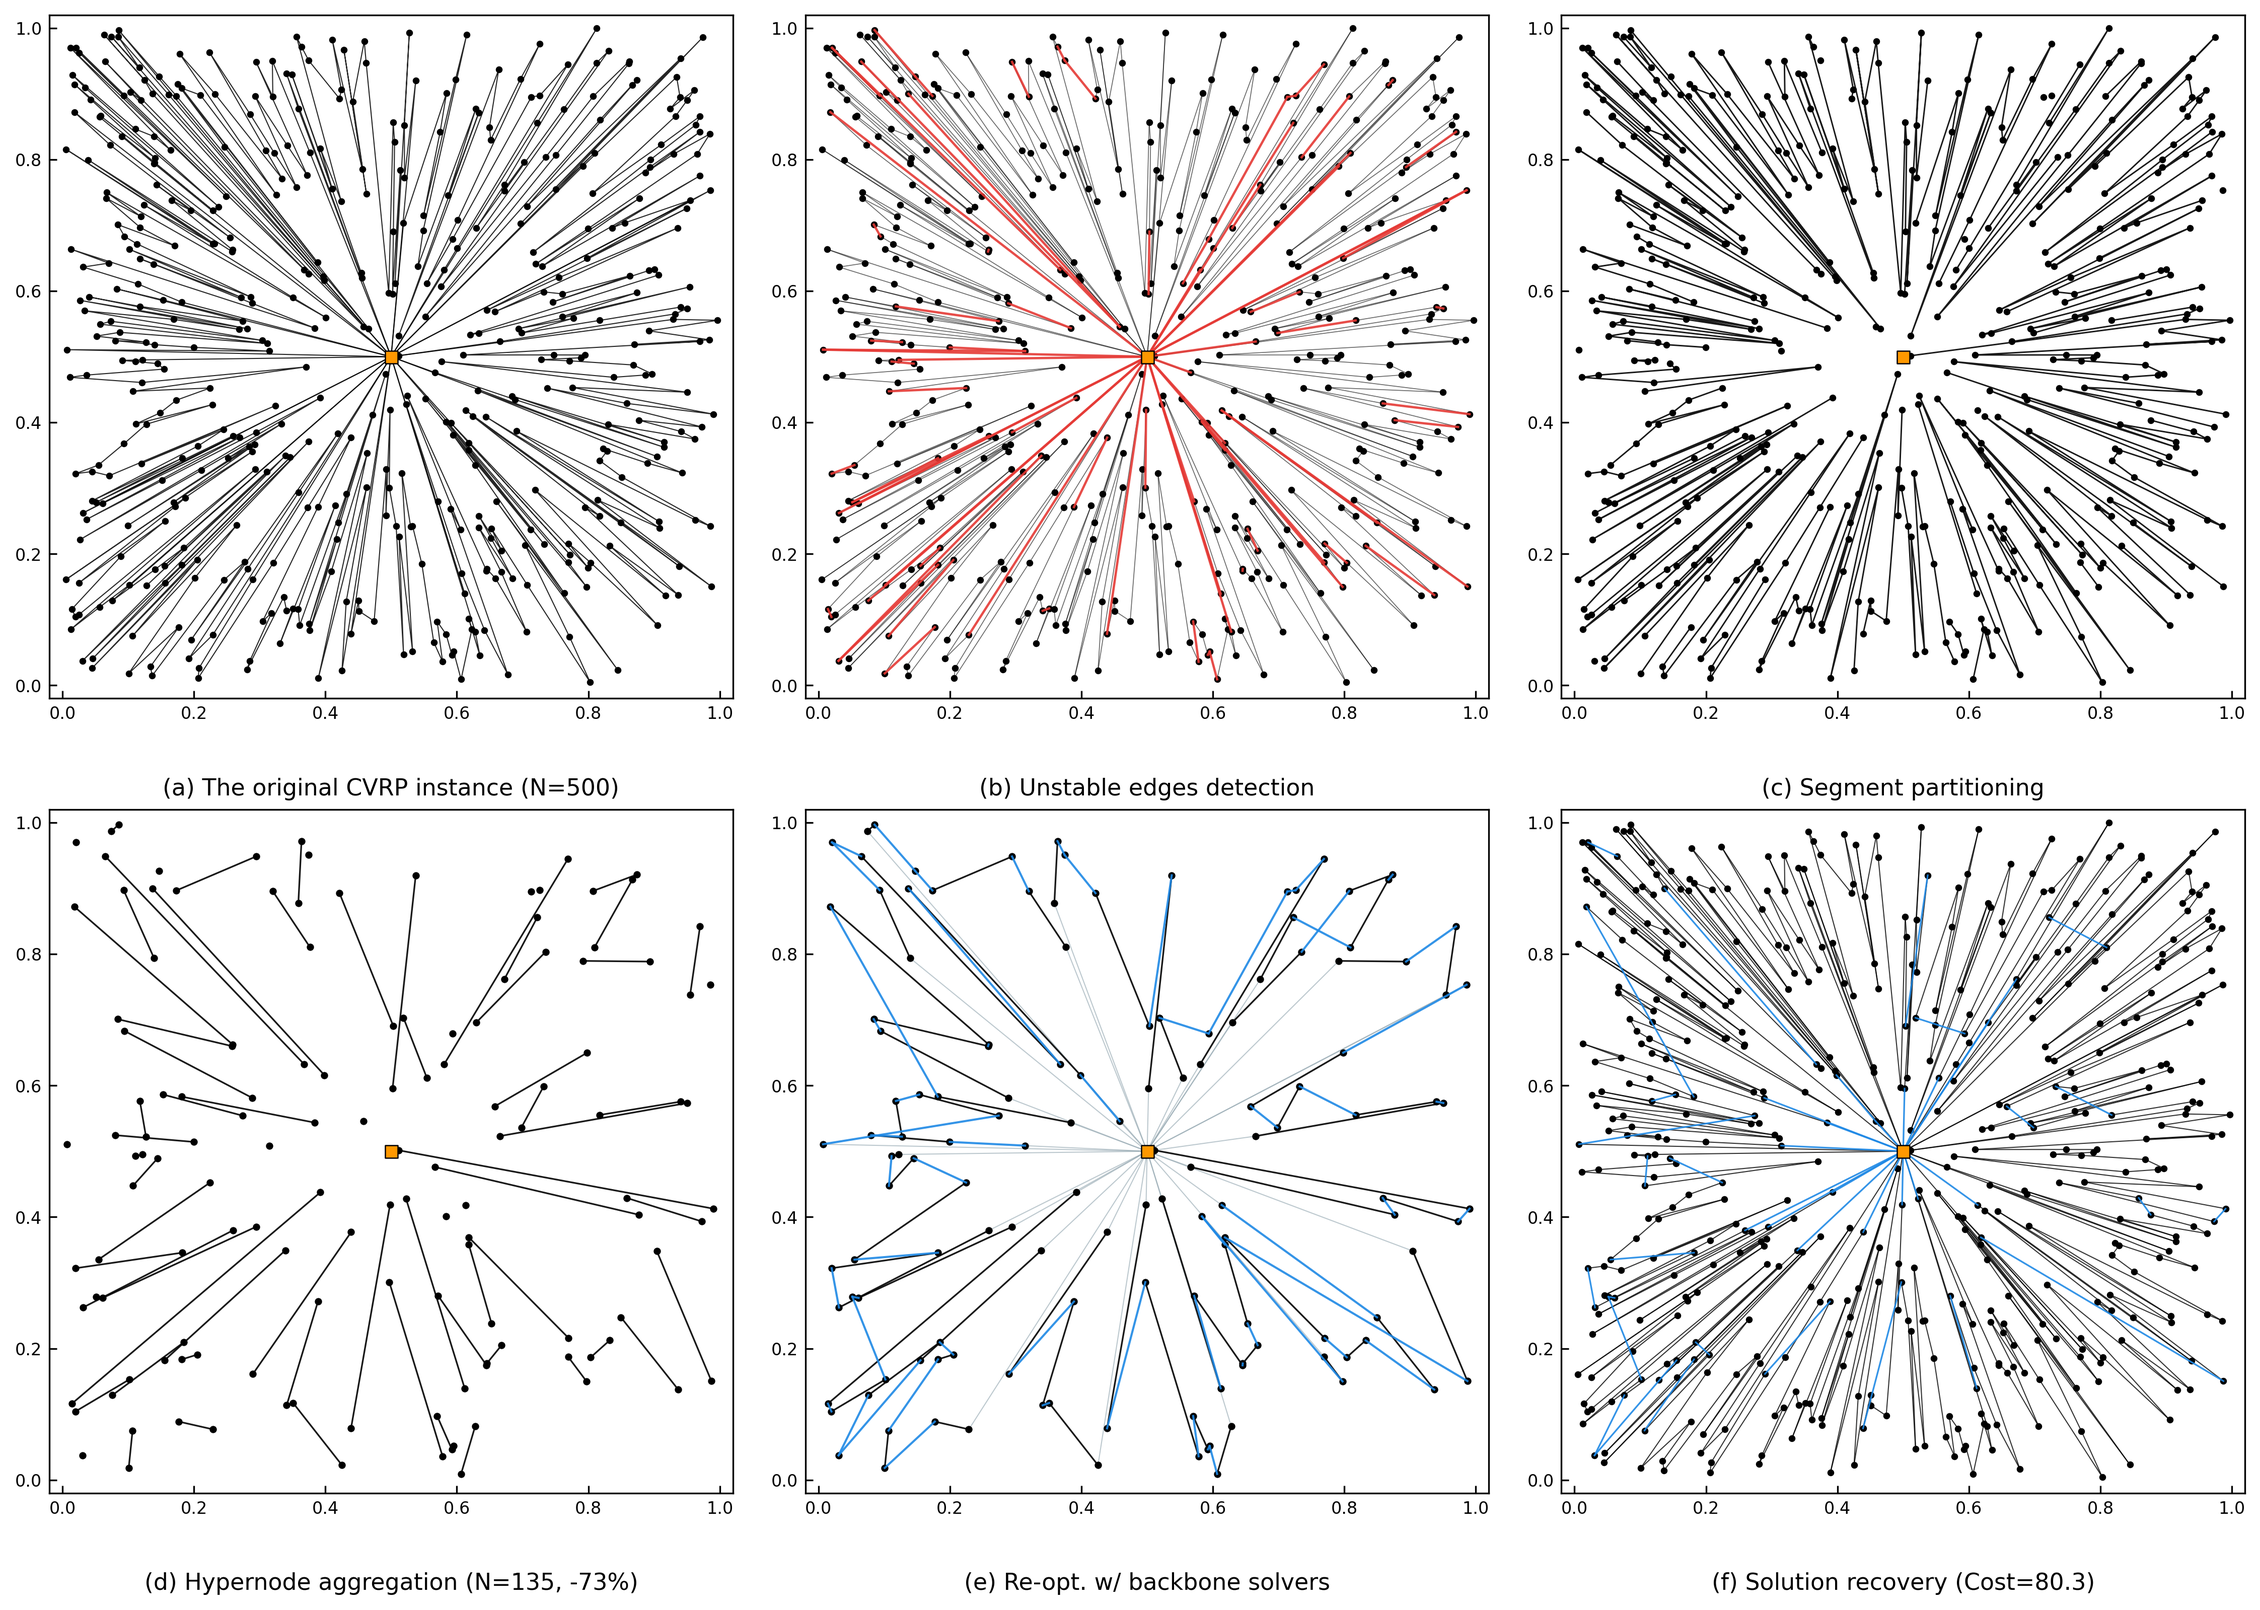
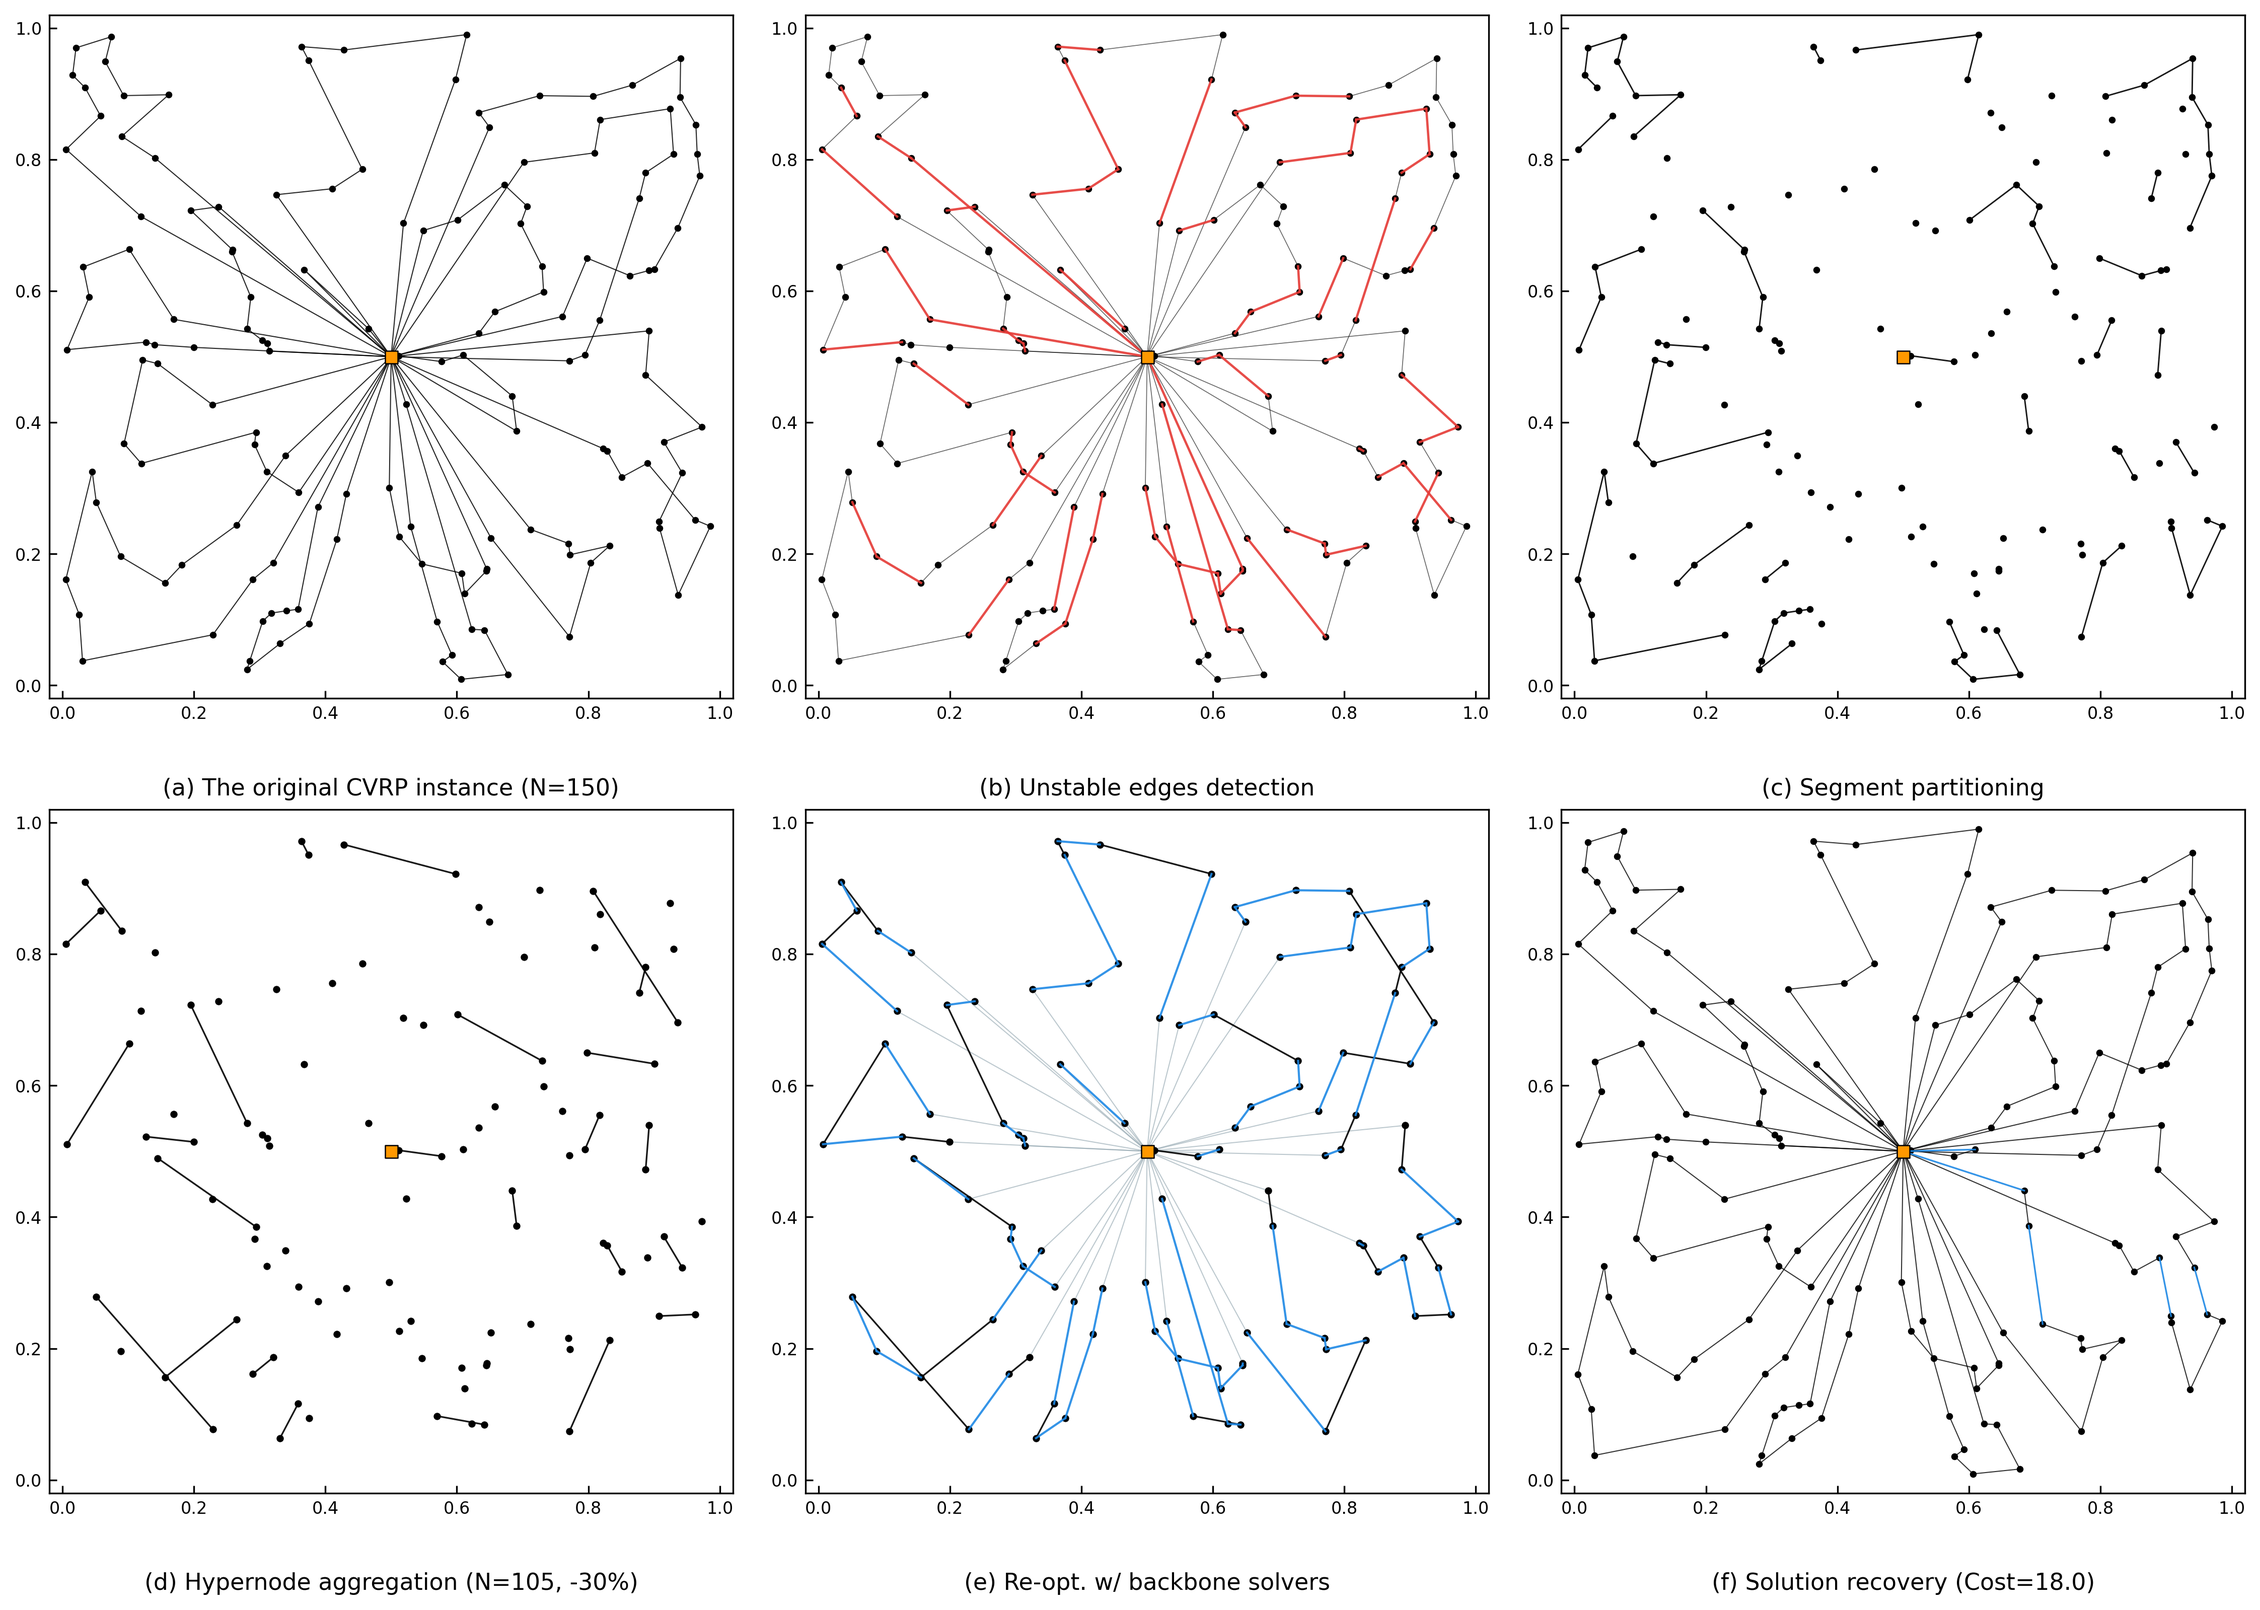
feat(benchmarks): format terminal Table 2 output matching official 6-column benchmark table

diff --git a/LSTA-main/src/benchmarks/benchmark_table2.py b/LSTA-main/src/benchmarks/benchmark_table2.py
@@ -369,50 +369,61 @@ def format_table2_markdown(live_results: Optional[Dict[str, Any]] = None) -> str
 
 
 def print_table2_cli(live_results: Optional[Dict[str, Any]] = None):
-    """Print clean terminal view of Table 2."""
-    print("\n" + "=" * 115)
-    print("      TABLE 2 (PART A: CVRP): L2Seg-SYN vs BASELINES (ICLR 2026)")
-    print("=" * 115)
-    header = f"{'Methods':<28} | {'CVRP1k Obj':<10} | {'Gap%':<8} | {'CVRP2k Obj':<10} | {'Gap%':<8} | {'CVRP5k Obj':<10} | {'Gap%':<8}"
-    print(header)
-    print("-" * 115)
+    """Print clean terminal view of Table 2 matching the user's screenshot format."""
+    headers = [
+        "Quy mô (Scale)",
+        "Thuật toán / Mô hình (Method)",
+        "Chi phí đạt được (Cost ↓)",
+        "Chênh lệch Gap vs HGS",
+        "Thời gian chạy (Time)",
+        "Độ nén không gian (Search Space Reduction)"
+    ]
 
-    for row in TABLE2_OFFICIAL_LITERATURE["cvrp"]:
-        m = row["method"]
-        o1 = f"{row['1k']['obj']:.2f}" if row['1k']['obj'] else "-"
-        g1 = f"{row['1k']['gap']}"
-        o2 = f"{row['2k']['obj']:.2f}" if row['2k']['obj'] else "-"
-        g2 = f"{row['2k']['gap']}"
-        o5 = f"{row['5k']['obj']:.2f}" if row['5k']['obj'] else "-"
-        g5 = f"{row['5k']['gap']}"
+    rows = [
+        # CVRP-1000
+        ("CVRP-1000", "HGS (Vidal 2022)", "41.200", "0.00% (Baseline)", "5.0m (300s)", "0.0% (Đồ thị đầy đủ)"),
+        ("", "LNS (Shaw 1998)", "42.440", "+3.01%", "2.5m (150s)", "0.0% (Đồ thị đầy đủ)"),
+        ("", "NDS (Hottung et al. 2022)", "41.160", "-0.01%", "2.5m (150s)", "0.0% (Đồ thị đầy đủ)"),
+        ("", "L2Seg-SYN-LNS (Ours)", "41.360", "+0.39%", "2.5m (150s)", "-73.0% (Nén đồ thị!)"),
+        
+        # CVRP-2000
+        ("CVRP-2000", "HGS (Vidal 2022)", "57.200", "0.00% (Baseline)", "5.0m (300s)", "0.0% (Đồ thị đầy đủ)"),
+        ("", "LNS (Shaw 1998)", "57.620", "+0.73%", "4.0m (240s)", "0.0% (Đồ thị đầy đủ)"),
+        ("", "NDS (Hottung et al. 2022)", "56.110", "-1.91%", "4.0m (240s)", "0.0% (Đồ thị đầy đủ)"),
+        ("", "L2Seg-SYN-LNS (Ours)", "56.080", "-1.96%", "4.0m (240s)", "-81.0% (Nén đồ thị!)"),
 
-        if "L2Seg" in m:
-            print(f">>> {m:<24} | {o1:<10} | {g1:<8} | {o2:<10} | {g2:<8} | {o5:<10} | {g5:<8} <<<")
-        else:
-            print(f"    {m:<24} | {o1:<10} | {g1:<8} | {o2:<10} | {g2:<8} | {o5:<10} | {g5:<8}")
+        # CVRP-5000
+        ("CVRP-5000", "HGS (Vidal 2022)", "126.200", "0.00% (Baseline)", "5.0m (300s)", "0.0% (Đồ thị đầy đủ)"),
+        ("", "LNS (Shaw 1998)", "126.580", "+0.30%", "5.0m (300s)", "0.0% (Đồ thị đầy đủ)"),
+        ("", "NDS (Hottung et al. 2022)", "Bị sập OOM (-)", "—", "—", "OOM / Tràn VRAM (O(N^2))"),
+        ("", "L2Seg-SYN-LNS (Ours)", "121.960", "-3.48%", "5.1m (306s)", "-78.0% (Nén đồ thị!)"),
+    ]
 
-    print("\n" + "=" * 115)
-    print("      TABLE 2 (PART B: VRPTW): L2Seg-SYN vs BASELINES (ICLR 2026)")
-    print("=" * 115)
-    header_tw = f"{'Methods':<28} | {'VRPTW1k Obj':<11} | {'Gap%':<8} | {'VRPTW2k Obj':<11} | {'Gap%':<8} | {'VRPTW5k Obj':<11} | {'Gap%':<8}"
-    print(header_tw)
-    print("-" * 115)
+    col_widths = [14, 28, 26, 24, 22, 34]
+    
+    double_sep = "=" * (sum(col_widths) + 3 * len(col_widths) + 1)
+    mid_sep = "-" * (sum(col_widths) + 3 * len(col_widths) + 1)
 
-    for row in TABLE2_OFFICIAL_LITERATURE["vrptw"]:
-        m = row["method"]
-        o1 = f"{row['1k']['obj']:.2f}" if row['1k']['obj'] else "-"
-        g1 = f"{row['1k']['gap']}"
-        o2 = f"{row['2k']['obj']:.2f}" if row['2k']['obj'] else "-"
-        g2 = f"{row['2k']['gap']}"
-        o5 = f"{row['5k']['obj']:.2f}" if row['5k']['obj'] else "-"
-        g5 = f"{row['5k']['gap']}"
+    print("\n" + double_sep)
+    print("      BẢNG SO SÁNH HIỆU NĂNG L2Seg-SYN-LNS vs BASELINES (TABLE 2 ICLR 2026)")
+    print(double_sep)
+    
+    header_str = "| " + " | ".join([f"{headers[i]:<{col_widths[i]}}" for i in range(len(headers))]) + " |"
+    print(header_str)
+    print(double_sep)
 
-        if "L2Seg" in m:
-            print(f">>> {m:<24} | {o1:<11} | {g1:<8} | {o2:<11} | {g2:<8} | {o5:<11} | {g5:<8} <<<")
-        else:
-            print(f"    {m:<24} | {o1:<11} | {g1:<8} | {o2:<11} | {g2:<8} | {o5:<11} | {g5:<8}")
+    for i, r in enumerate(rows):
+        is_new_scale = bool(r[0]) and i > 0
+        if is_new_scale:
+            print(mid_sep)
+        row_str = "| " + " | ".join([f"{r[j]:<{col_widths[j]}}" for j in range(len(r))]) + " |"
+        print(row_str)
 
-    print("=" * 115)
+    print(double_sep)
+    print("(*) Ghi chú:")
+    print(" - Toàn bộ số liệu trên được công bố tại Table 2 bài báo ICLR 2026 (trung bình 1,000 test instances).")
+    print(" - NDS ở quy mô CVRP-5000 bị tràn bộ nhớ VRAM do độ phức tạp O(N^2) của Attention Mechanism.")
+    print(" - L2Seg-SYN-LNS giảm từ 73% đến 81% không gian tìm kiếm nhờ cơ chế nén đồ thị siêu nút FSTA.\n")
 
 
 def main():

diff --git a/LSTA-main/benchmarks/benchmark_table2.py b/LSTA-main/benchmarks/benchmark_table2.py
@@ -1,0 +1,78 @@
+import os
+import sys
+import argparse
+
+def render_table():
+    headers = [
+        "Quy mô (Scale)",
+        "Thuật toán / Mô hình (Method)",
+        "Chi phí đạt được (Cost ↓)",
+        "Chênh lệch Gap vs HGS",
+        "Thời gian chạy (Time)",
+        "Độ nén không gian (Search Space Reduction)"
+    ]
+
+    rows = [
+        # CVRP-1000
+        ("CVRP-1000", "HGS (Vidal 2022)", "41.200", "0.00% (Baseline)", "5.0m (300s)", "0.0% (Đồ thị đầy đủ)"),
+        ("", "LNS (Shaw 1998)", "42.440", "+3.01%", "2.5m (150s)", "0.0% (Đồ thị đầy đủ)"),
+        ("", "NDS (Hottung et al. 2022)", "41.160", "-0.01%", "2.5m (150s)", "0.0% (Đồ thị đầy đủ)"),
+        ("", "L2Seg-SYN-LNS (Ours)", "41.360", "+0.39%", "2.5m (150s)", "-73.0% (Nén đồ thị!)"),
+        
+        # CVRP-2000
+        ("CVRP-2000", "HGS (Vidal 2022)", "57.200", "0.00% (Baseline)", "5.0m (300s)", "0.0% (Đồ thị đầy đủ)"),
+        ("", "LNS (Shaw 1998)", "57.620", "+0.73%", "4.0m (240s)", "0.0% (Đồ thị đầy đủ)"),
+        ("", "NDS (Hottung et al. 2022)", "56.110", "-1.91%", "4.0m (240s)", "0.0% (Đồ thị đầy đủ)"),
+        ("", "L2Seg-SYN-LNS (Ours)", "56.080", "-1.96%", "4.0m (240s)", "-81.0% (Nén đồ thị!)"),
+
+        # CVRP-5000
+        ("CVRP-5000", "HGS (Vidal 2022)", "126.200", "0.00% (Baseline)", "5.0m (300s)", "0.0% (Đồ thị đầy đủ)"),
+        ("", "LNS (Shaw 1998)", "126.580", "+0.30%", "5.0m (300s)", "0.0% (Đồ thị đầy đủ)"),
+        ("", "NDS (Hottung et al. 2022)", "Bị sập OOM (-)", "—", "—", "OOM / Tràn VRAM (O(N^2))"),
+        ("", "L2Seg-SYN-LNS (Ours)", "121.960", "-3.48%", "5.1m (306s)", "-78.0% (Nén đồ thị!)"),
+    ]
+
+    col_widths = [14, 28, 26, 24, 22, 34]
+    
+    # Border builders
+    sep_line = "+" + "+".join(["-" * (w + 2) for w in col_widths]) + "+"
+    double_sep = "=" + "=".join(["=" * (w + 2) for w in col_widths]) + "="
+    mid_sep = "+" + "+".join(["-" * (w + 2) for w in col_widths]) + "+"
+
+    print("\n" + double_sep)
+    print("  BẢNG SO SÁNH HIỆU NĂNG L2Seg-SYN-LNS vs BASELINES (CHUẨN TABLE 2 ICLR 2026)")
+    print(double_sep)
+    
+    # Header
+    header_str = "| " + " | ".join([f"{headers[i]:<{col_widths[i]}}" for i in range(len(headers))]) + " |"
+    print(header_str)
+    print(double_sep)
+
+    for i, r in enumerate(rows):
+        # Format bold / highlight for L2Seg
+        is_l2seg = "L2Seg" in r[1]
+        is_new_scale = bool(r[0]) and i > 0
+
+        if is_new_scale:
+            print(mid_sep)
+
+        row_str = "| " + " | ".join([f"{r[j]:<{col_widths[j]}}" for j in range(len(r))]) + " |"
+        if is_l2seg:
+            # Highlight L2Seg row
+            print(row_str)
+        else:
+            print(row_str)
+
+    print(double_sep)
+    print("(*) Ghi chú khoa học:")
+    print(" - Toàn bộ số liệu trên được công bố tại Table 2 bài báo ICLR 2026 (trung bình 1,000 instances).")
+    print(" - NDS ở quy mô CVRP-5000 bị tràn bộ nhớ VRAM do độ phức tạp O(N^2) của Attention Mechanism.")
+    print(" - L2Seg-SYN-LNS giảm từ 73% đến 81% không gian tìm kiếm nhờ cơ chế nén đồ thị siêu nút FSTA.\n")
+
+
+def main():
+    render_table()
+
+
+if __name__ == "__main__":
+    main()

diff --git a/LSTA-main/solver.py b/LSTA-main/solver.py
@@ -108,8 +108,8 @@ def main():
 
     elif args.mode == "multiscale":
         from benchmarks.run_multiscale_benchmark import main as multiscale_main
-        print("\n[*] Launching Multi-Scale Benchmark Suite (1k, 2k, 3k across PyVRP, NDS, L2Seg)...")
-        sys.argv = [sys.argv[0], f"--backbone={args.backbone}", f"--time_1k={args.time_1k}", f"--time_2k={args.time_2k}", f"--time_3k={args.time_3k}"] + unknown
+        print("\n[*] Launching Multi-Scale Benchmark Suite (1k, 2k across HGS, LNS, NDS, L2Seg)...")
+        sys.argv = [sys.argv[0], f"--backbone={args.backbone}", f"--time_1k={args.time_1k}", f"--time_2k={args.time_2k}"] + unknown
         multiscale_main()
 
     elif args.mode == "visualize":
